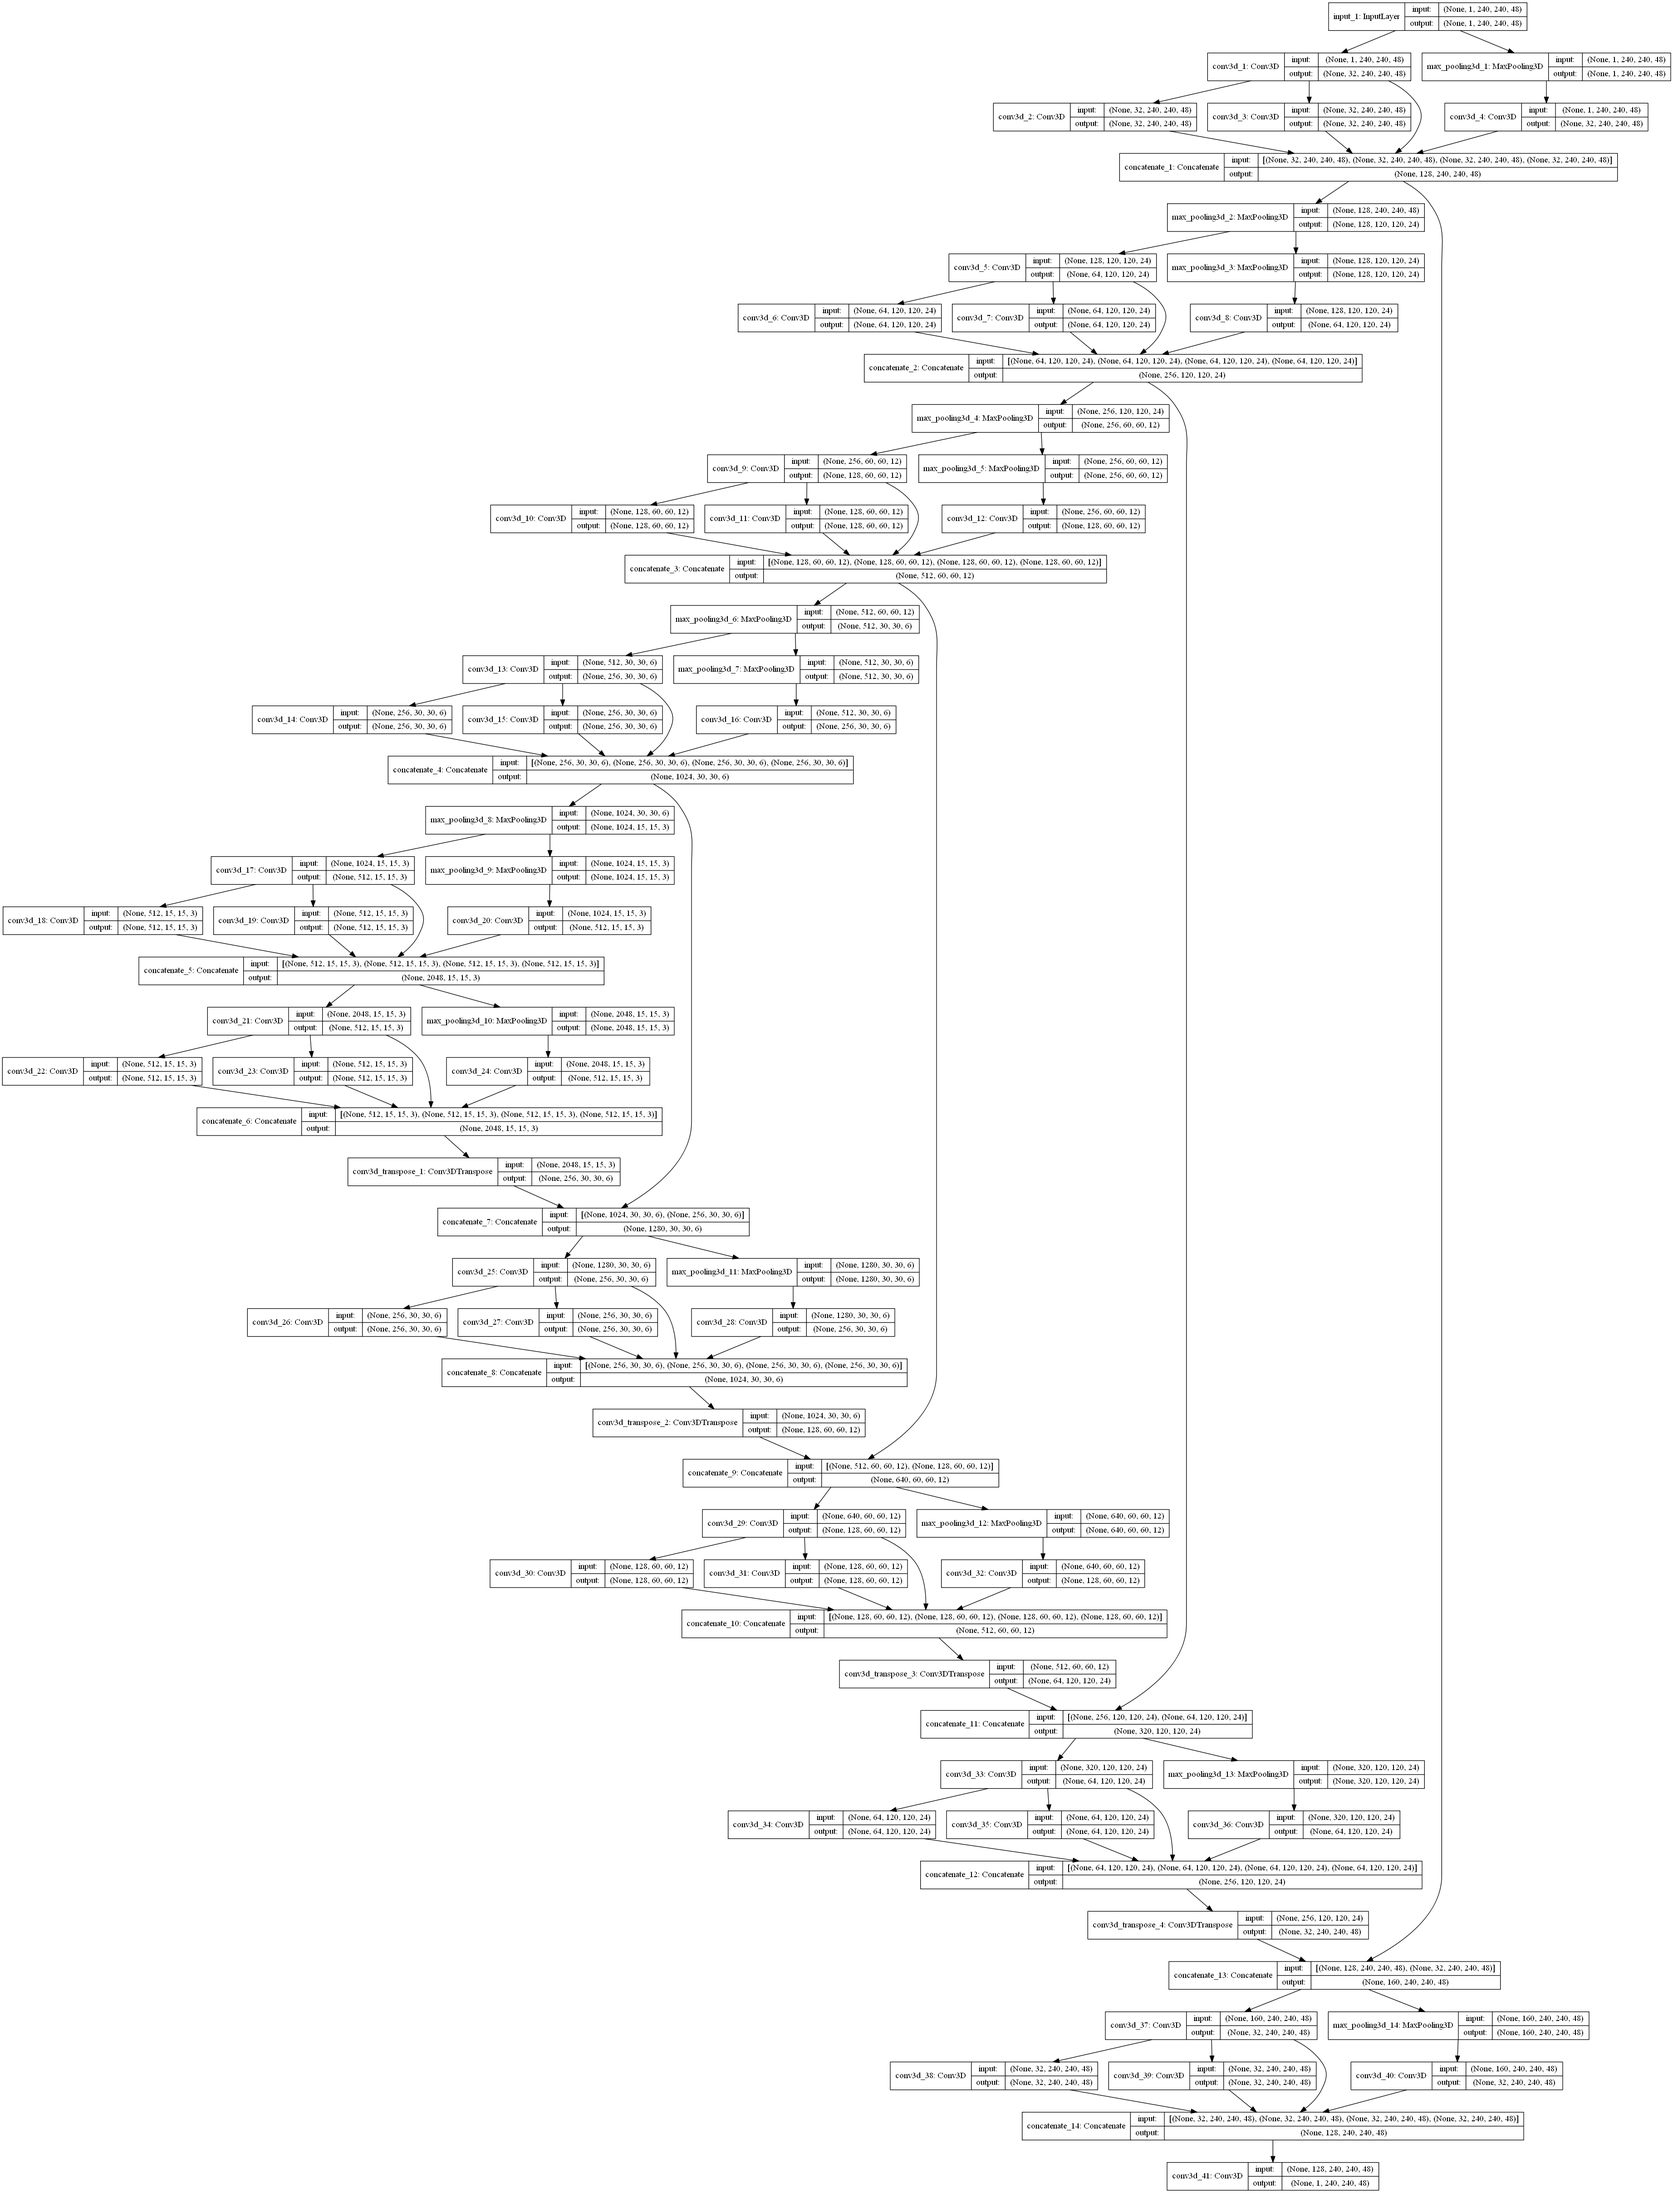
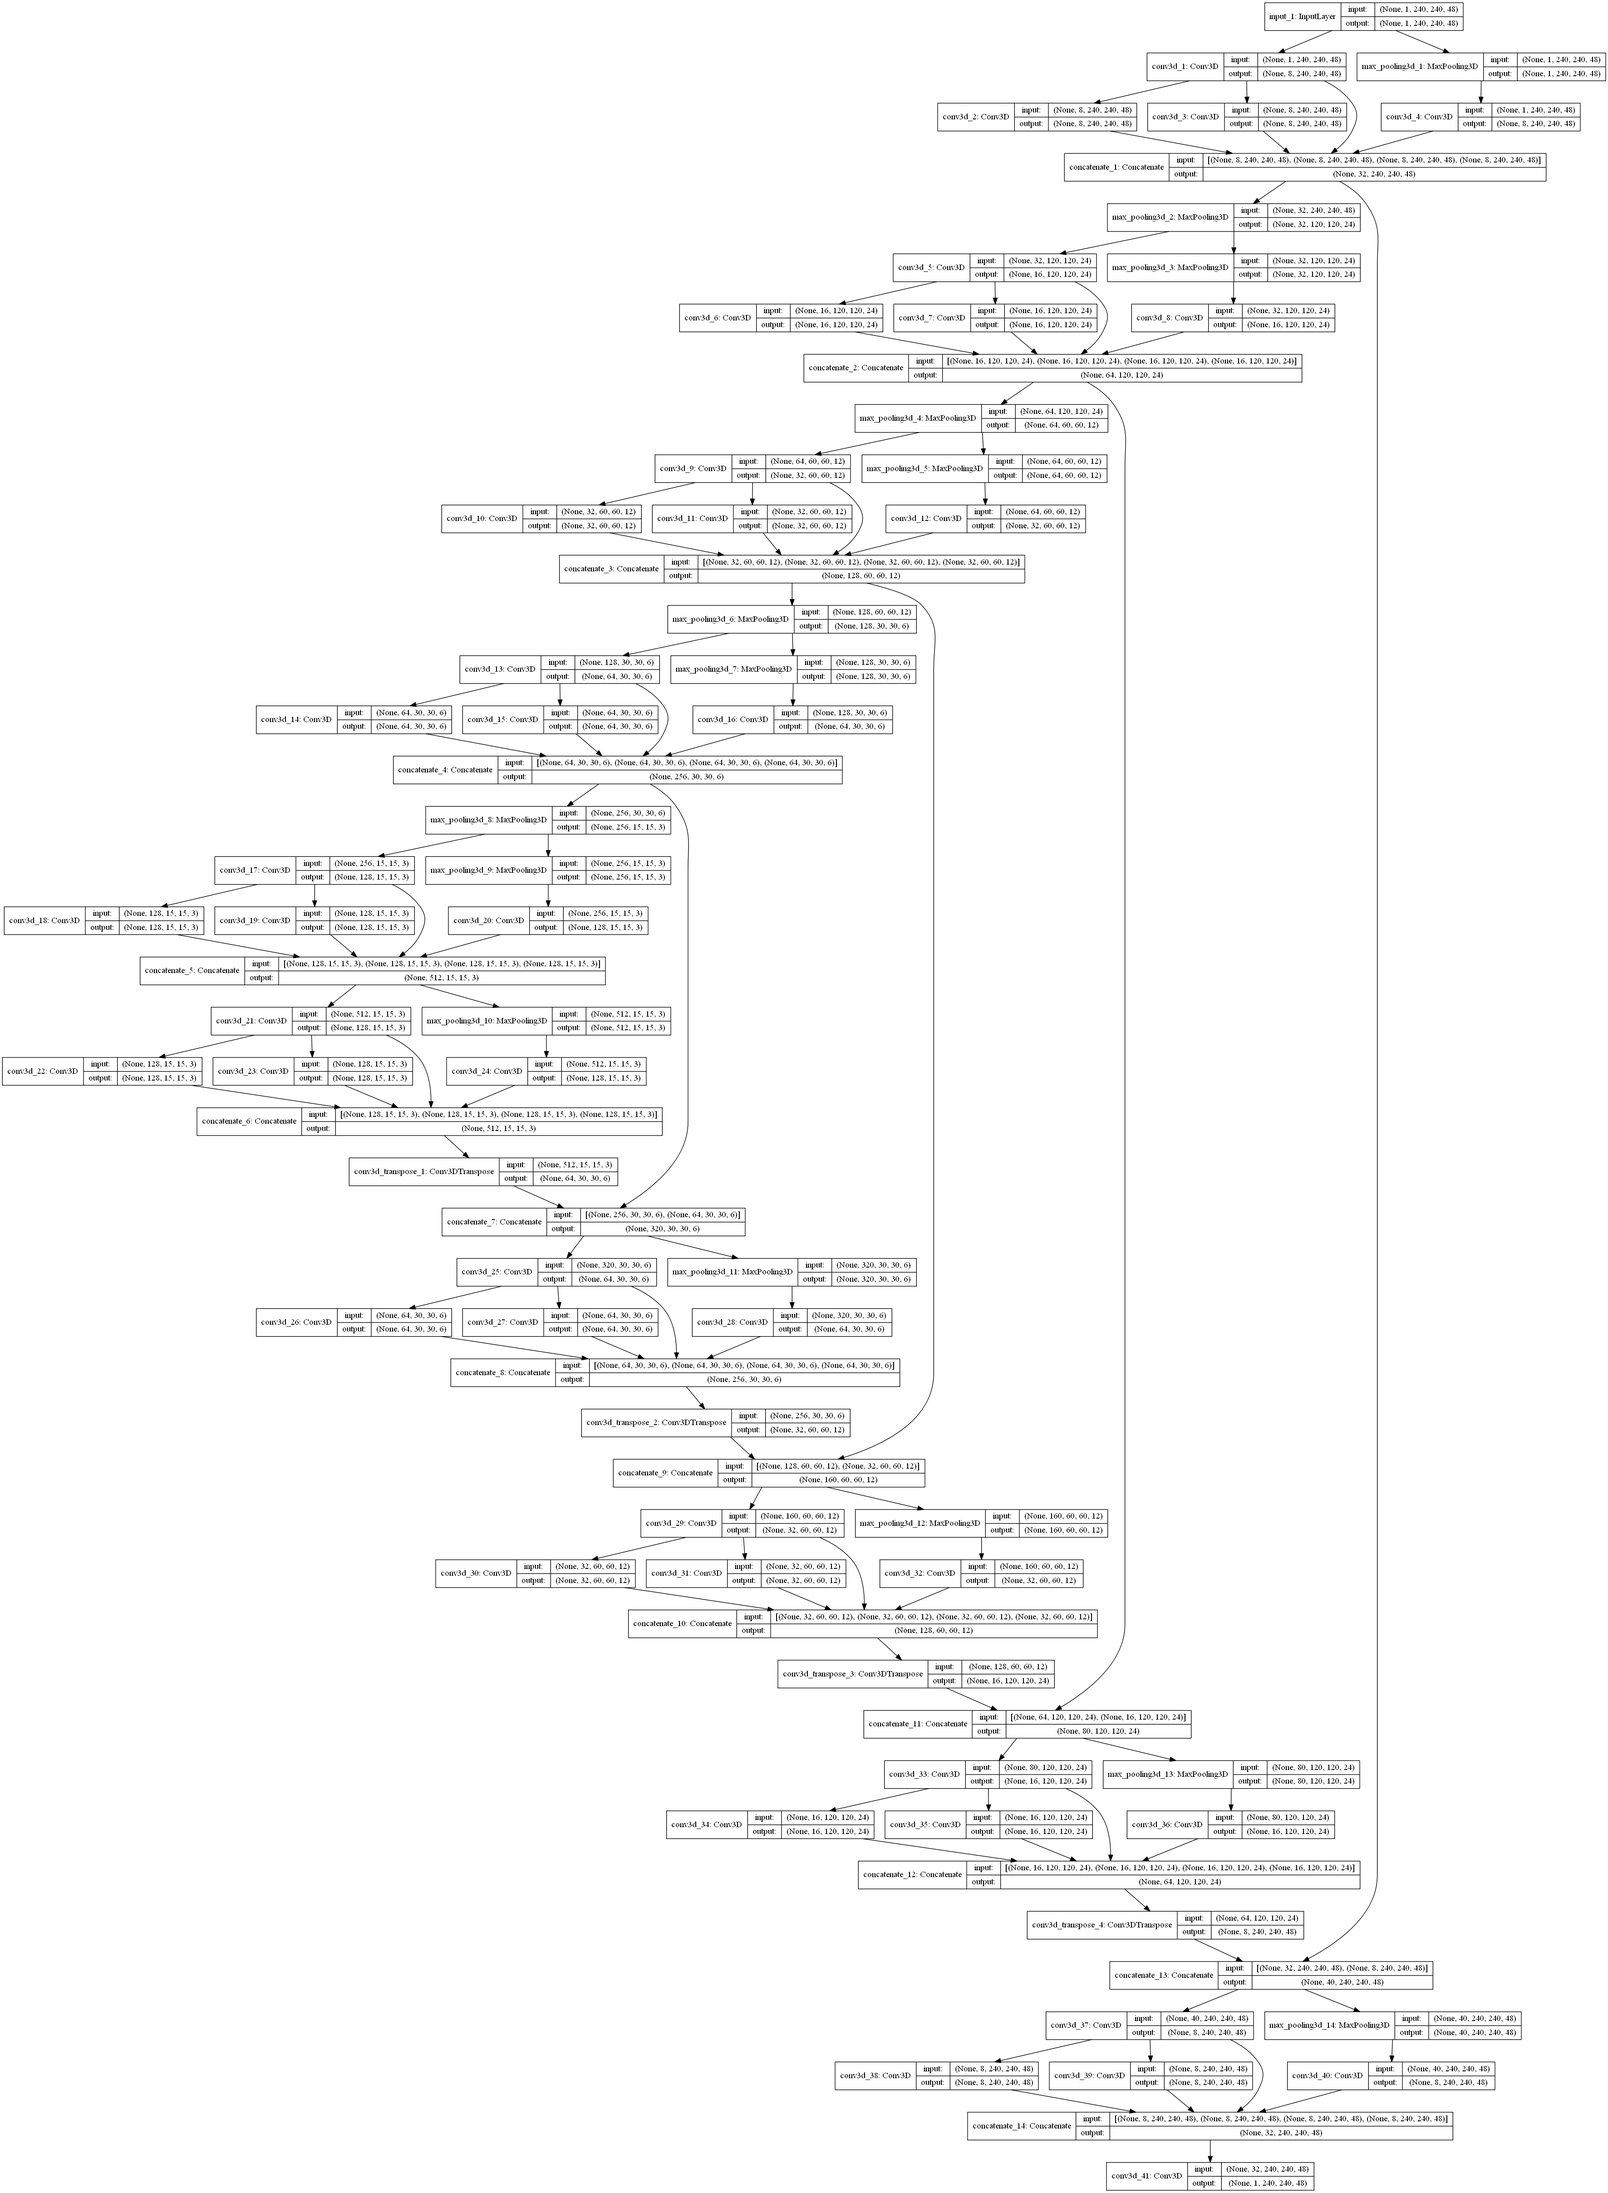
added preprocessing stuff

diff --git a/utils/preprocess.py b/utils/preprocess.py
@@ -2,6 +2,8 @@ import cv2 as cv
 import nibabel as nib
 import numpy as np
 from deepbrain import Extractor
+import SimpleITK as sitk
+from math import pi
 
 
 def get_data(path):
@@ -33,3 +35,112 @@ def IR_to_uint8(data):
     data = data.astype(np.float)
     data[data < 0] = 0
     return ((data - 800) * 255.0 / data.max()).astype(np.uint8)
+
+
+def n4_bias_field_correction(input_image, outputImage=None,
+                             shrinkFactor=None,
+                             mask_image=None,
+                             numberOfIterations=None,
+                             number_of_fitting_levels=None):
+    '''
+    :param input_image: image to correct
+    :param outputImage: image to save results
+    :param shrinkFactor: factor
+    :param mask_image: mask
+    :param numberOfIterations: number of iterations
+    :param number_of_fitting_levels: fitting levels
+    :return: tuple (corrected image, calculated bias field, log bias field)
+    '''
+    inputImage = sitk.ReadImage(input_image, sitk.sitkFloat32)
+    image = inputImage
+
+    if mask_image is not None:
+        maskImage = sitk.ReadImage(mask_image, sitk.sitkUint8)
+    else:
+        maskImage = sitk.OtsuThreshold(inputImage, 0, 1, 200)
+
+    if shrinkFactor is not None:
+        image = sitk.Shrink(inputImage,
+                            [shrinkFactor] * inputImage.GetDimension())
+        maskImage = sitk.Shrink(maskImage,
+                                [shrinkFactor] * inputImage.GetDimension())
+
+    corrector = sitk.N4BiasFieldCorrectionImageFilter()
+
+    numberFittingLevels = 4
+
+    if number_of_fitting_levels is not None:
+        numberFittingLevels = number_of_fitting_levels
+
+    if numberOfIterations is not None:
+        corrector.SetMaximumNumberOfIterations([numberOfIterations] * numberFittingLevels)
+
+    corrected_image = corrector.Execute(image, maskImage)
+
+    log_bias_field = corrector.GetLogBiasFieldAsImage(inputImage)
+    bias_field = inputImage / sitk.Exp(log_bias_field)
+
+    if outputImage is not None:
+        sitk.WriteImage(corrected_image, outputImage)
+
+    return corrected_image, bias_field, log_bias_field
+
+
+def exhautive_registration(fixedImageFilter, movingImageFile):
+    '''
+    :param fixedImageFilter: fixed image template
+    :param movingImageFile: image to register
+    :return: transform and transformed image
+    '''
+    fixed = sitk.ReadImage(fixedImageFilter, sitk.sitkFloat32)
+    moving = sitk.ReadImage(movingImageFile, sitk.sitkFloat32)
+
+    R = sitk.ImageRegistrationMethod()
+    R.SetMetricAsMattesMutualInformation(numberOfHistogramBins=50)
+
+    sample_per_axis = 12
+    if fixed.GetDimension() == 2:
+        tx = sitk.Euler2DTransform()
+        # Set the number of samples (radius) in each dimension, with a
+        # default step size of 1.0
+        R.SetOptimizerAsExhaustive([sample_per_axis // 2, 0, 0])
+        # Utilize the scale to set the step size for each dimension
+        R.SetOptimizerScales([2.0 * pi / sample_per_axis, 1.0, 1.0])
+    elif fixed.GetDimension() == 3:
+        tx = sitk.Euler3DTransform()
+        R.SetOptimizerAsExhaustive([sample_per_axis // 2, sample_per_axis // 2,
+                                    sample_per_axis // 4, 0, 0, 0])
+        R.SetOptimizerScales(
+            [2.0 * pi / sample_per_axis, 2.0 * pi / sample_per_axis,
+             2.0 * pi / sample_per_axis, 1.0, 1.0, 1.0])
+
+    # Initialize the transform with a translation and the center of
+    # rotation from the moments of intensity.
+    tx = sitk.CenteredTransformInitializer(fixed, moving, tx)
+
+    R.SetInitialTransform(tx)
+
+    R.SetInterpolator(sitk.sitkLinear)
+
+    # R.AddCommand(sitk.sitkIterationEvent, lambda: command_iteration(R))
+
+    transform = R.Execute(fixed, moving)
+
+    # print("-------")
+    # print(outTx)
+    # print("Optimizer stop condition: {0}"
+    #      .format(R.GetOptimizerStopConditionDescription()))
+    # print(" Iteration: {0}".format(R.GetOptimizerIteration()))
+    # print(" Metric value: {0}".format(R.GetMetricValue()))
+
+    # sitk.WriteTransform(outTx, sys.argv[3])
+    resampler = sitk.ResampleImageFilter()
+    resampler.SetReferenceImage(fixed)
+    resampler.SetInterpolator(sitk.sitkLinear)
+    resampler.SetDefaultPixelValue(1)
+    resampler.SetTransform(transform)
+
+    resampled = resampler.Execute(moving)
+
+    return transform, resampled
+

diff --git a/decoder/decoder.py b/decoder/decoder.py
@@ -1,32 +1,32 @@
 from keras.layers import Conv3D, Conv3DTranspose, Concatenate, UpSampling3D, Dropout
 from encoder import basic_rdim_inception, basic_naive_inception
 
-def decode_inception(layers, naive=False, IMAGE_ORDERING='channels_first', use_droput=True):
+def decode_inception(layers, naive=False, IMAGE_ORDERING='channels_first', use_droput=False):
     fn = basic_naive_inception if naive else basic_rdim_inception
 
-    layer_6 = fn(layers[4], 128, IMAGE_ORDERING=IMAGE_ORDERING)
+    layer_6 = fn(layers[4], 64, IMAGE_ORDERING=IMAGE_ORDERING)
     # layer_6 =UpSampling3D(size=(3, 3, 3))(layer_6)
-    layer_6 = Conv3DTranspose(filters=64, kernel_size=(3, 3, 3), strides=(2, 2, 2), padding='same', data_format=IMAGE_ORDERING)(layer_6)
+    layer_6 = Conv3DTranspose(filters=64, kernel_size=(3, 3, 3), activation='relu', strides=(2, 2, 2), padding='same', data_format=IMAGE_ORDERING)(layer_6)
 
     layer_7 = Concatenate(axis=1)([layers[3], layer_6])
-    layer_7 = fn(layer_7, 64, IMAGE_ORDERING=IMAGE_ORDERING)
+    layer_7 = fn(layer_7, 32, IMAGE_ORDERING=IMAGE_ORDERING)
     # layer_7 = UpSampling3D(size=(3, 3, 3))(layer_7)
-    layer_7 = Conv3DTranspose(filters=32, kernel_size=(3, 3, 3), strides=(2, 2, 2), padding='same', data_format=IMAGE_ORDERING)(layer_7)
+    layer_7 = Conv3DTranspose(filters=32, kernel_size=(3, 3, 3), activation='relu', strides=(2, 2, 2), padding='same', data_format=IMAGE_ORDERING)(layer_7)
 
     layer_8 = Concatenate(axis=1)([layers[2], layer_7])
-    layer_8 = fn(layer_8, 32, IMAGE_ORDERING=IMAGE_ORDERING)
+    layer_8 = fn(layer_8, 16, IMAGE_ORDERING=IMAGE_ORDERING)
     # layer_8 = UpSampling3D(size=(3, 3, 3))(layer_8)
-    layer_8 = Conv3DTranspose(filters=16, kernel_size=(3, 3, 3), strides=(2, 2, 2), padding='same', data_format=IMAGE_ORDERING)(layer_8)
+    layer_8 = Conv3DTranspose(filters=16, kernel_size=(3, 3, 3), activation='relu', strides=(2, 2, 2), padding='same', data_format=IMAGE_ORDERING)(layer_8)
 
     layer_9 = Concatenate(axis=1)([layers[1], layer_8])
-    layer_9 = fn(layer_9, 16, IMAGE_ORDERING=IMAGE_ORDERING)
+    layer_9 = fn(layer_9, 8, IMAGE_ORDERING=IMAGE_ORDERING)
     # layer_9 = UpSampling3D(size=(3, 3, 3))(layer_9)
-    layer_9 = Conv3DTranspose(filters=8, kernel_size=(3, 3, 3), strides=(2, 2, 2), padding='same', data_format=IMAGE_ORDERING)(layer_9)
+    layer_9 = Conv3DTranspose(filters=8, kernel_size=(3, 3, 3), activation='relu', strides=(2, 2, 2), padding='same', data_format=IMAGE_ORDERING)(layer_9)
 
     layer_10 = Concatenate(axis=1)([layers[0], layer_9])
     layer_10 = fn(layer_10, 8, IMAGE_ORDERING=IMAGE_ORDERING)
 
-    output = Conv3D(filters=1, kernel_size=(1, 1, 1), strides=(1, 1, 1), padding='same', data_format=IMAGE_ORDERING)(layer_10)
+    output = Conv3D(filters=1, kernel_size=(1, 1, 1), activation='relu', strides=(1, 1, 1), padding='same', data_format=IMAGE_ORDERING)(layer_10)
 
     if use_droput == True:
         output = Dropout(.2)(output)

diff --git a/encoder/inception_encoder.py b/encoder/inception_encoder.py
@@ -2,6 +2,8 @@ from keras.layers import Conv3D, MaxPool3D, Concatenate
 
 
 def basic_rdim_inception(img_input, nfilters=64, IMAGE_ORDERING='channels_first'):
+    print('shape:', img_input.shape)
+
     tower_1 = Conv3D(filters=nfilters, kernel_size=(1, 1, 1), padding='same', activation='relu', data_format=IMAGE_ORDERING)(img_input)
 
     tower_2 = Conv3D(filters=nfilters, kernel_size=(3, 3, 3), padding='same', activation='relu', data_format=IMAGE_ORDERING)(tower_1)
@@ -31,16 +33,16 @@ def encode_inception(img_input, naive=False, IMAGE_ORDERING='channels_first'):
     layer_1 = fn(img_input, 8, IMAGE_ORDERING=IMAGE_ORDERING)
 
     layer_2 = MaxPool3D(pool_size=(3, 3, 3), strides=(2, 2, 2), padding='same', data_format=IMAGE_ORDERING)(layer_1)
-    layer_2 = fn(layer_2, 16, IMAGE_ORDERING=IMAGE_ORDERING)
+    layer_2 = fn(layer_2, 8, IMAGE_ORDERING=IMAGE_ORDERING)
 
     layer_3 = MaxPool3D(pool_size=(3, 3, 3), strides=(2, 2, 2), padding='same', data_format=IMAGE_ORDERING)(layer_2)
-    layer_3 = fn(layer_3, 32, IMAGE_ORDERING=IMAGE_ORDERING)
+    layer_3 = fn(layer_3, 16, IMAGE_ORDERING=IMAGE_ORDERING)
 
     layer_4 = MaxPool3D(pool_size=(3, 3, 3), strides=(2, 2, 2), padding='same', data_format=IMAGE_ORDERING)(layer_3)
-    layer_4 = fn(layer_4, 64, IMAGE_ORDERING=IMAGE_ORDERING)
+    layer_4 = fn(layer_4, 32, IMAGE_ORDERING=IMAGE_ORDERING)
 
     layer_5 = MaxPool3D(pool_size=(3, 3, 3), strides=(2, 2, 2), padding='same', data_format=IMAGE_ORDERING)(layer_4)
-    layer_5 = fn(layer_5, 128, IMAGE_ORDERING=IMAGE_ORDERING)
+    layer_5 = fn(layer_5, 64, IMAGE_ORDERING=IMAGE_ORDERING)
 
     return [layer_1, layer_2, layer_3, layer_4, layer_5]
 

diff --git a/utils/utils.py b/utils/utils.py
@@ -1,7 +1,7 @@
 import numpy as np
 import nibabel as nib
 import matplotlib.pyplot as plt
-
+import SimpleITK as sitk
 
 def visualize(PATH, View="Axial_View", cmap=None):
     """
@@ -123,3 +123,31 @@ def data_val(root="./"):
     segm_val = root + 'training/148/segm.nii.gz'
 
     return T1_val, FLAIR_val, IR_val, segm_val
+
+
+def read_batch(in_dir, save_all=True):
+    '''
+    :param in_dir: directory where the .dcm files are stored
+    :param save_all: True if we want to store the nii files to the same origin dir
+    :return: array of .nii images
+    '''
+    reader = sitk.ImageSeriesReader()
+
+    ids = reader.GetGDCMSeriesIDs(in_dir)
+
+    images = []
+
+    for i in ids:
+        dicom_names = reader.GetGDCMSeriesFileNames(in_dir, i)
+        reader.SetFileNames(dicom_names)
+        reader.MetaDataDictionaryArrayUpdateOn()
+        reader.LoadPrivateTagsOn()
+        image = reader.Execute()
+        images.append(image)
+        if save_all == True:
+            series_name = reader.GetMetaData(0, '0008|103e')
+            sitk.WriteImage(image, '{0}{1}.nii'.format(in_dir, series_name))
+
+    # dicom_names = reader.GetGDCMSeriesFileNames(in_dir)
+
+    return images

diff --git a/train_inception_unet.py b/train_inception_unet.py
@@ -10,7 +10,9 @@ from common import *
 if __name__ == '__main__':
     tf.compat.v1.enable_eager_execution()
 
-    model_ = inception_unet()
+    #model_ = inception_unet()
+    model_ = inception_unet(shape=(1, 192, 224, 192))
+
 
     model_.compile(optimizer='adam',
                    loss=dice_loss,
@@ -19,8 +21,10 @@ if __name__ == '__main__':
 
     # exit(0)
 
-    # from keras.utils.vis_utils import plot_model
-    # plot_model(model_, to_file='model_plot.png', show_shapes=True)
+    from keras.utils.vis_utils import plot_model
+    plot_model(model_, to_file='mni_space_model_plot.png', show_shapes=True)
+
+    exit(0)
 
     t1_paths, seg_paths = mrbrains2018_data_train(ROOT)
 

diff --git a/hammers_2017_preprocessing.py b/hammers_2017_preprocessing.py
@@ -1,0 +1,16 @@
+from utils import *
+from common import *
+import SimpleITK as sitk
+
+
+def do_preprocess(root):
+    for i in range(12, 31):
+        _name = 'a{:02d}'.format(i)
+        corrected_image, bias_field, log_bias_field = n4_bias_field_correction(root + 'images/' + _name + '.nii.gz')
+        sitk.WriteImage(corrected_image, root + 'pre/' + _name + '-bfc.nii.gz')
+        # sitk.WriteImage(bias_field, root + 'pre/' + _name + '-bf.nii.gz')
+        # sitk.WriteImage(log_bias_field, root + 'pre/' + _name + '-lbf.nii.gz')
+
+
+if __name__ == '__main__':
+    do_preprocess(HAMMERS_ROOT)

diff --git a/common.py b/common.py
@@ -4,7 +4,8 @@ from utils import *
 ROOT = "./datasets/mrbrains_full_2018/"  # BASE PATH TO MRBrainS18
 LABEL = "Cerebellum"  # LABEL TO TRAIN FOR
 EPOCHS = 400  # NUMBER OF EPOCHS
-
+HAMMERS_ROOT = './datasets/hammers_full_2017/'
+IMG_ROOT = './datasets/'
 
 
 
